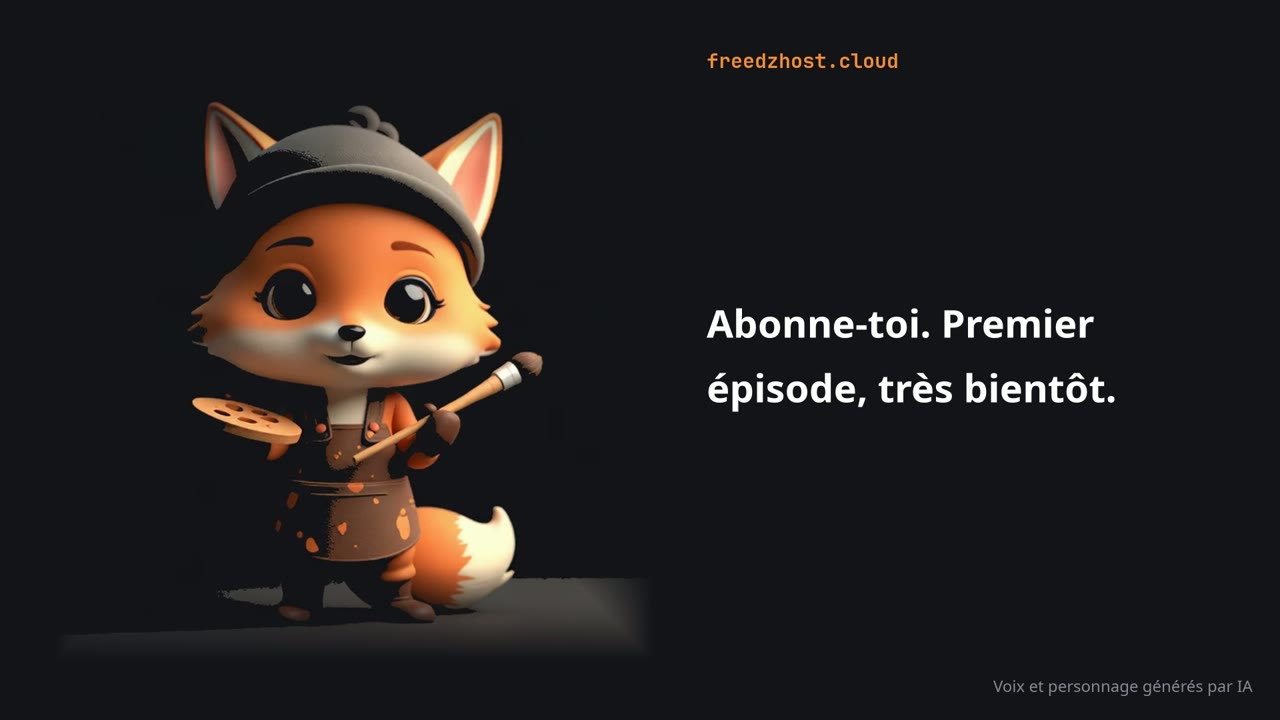
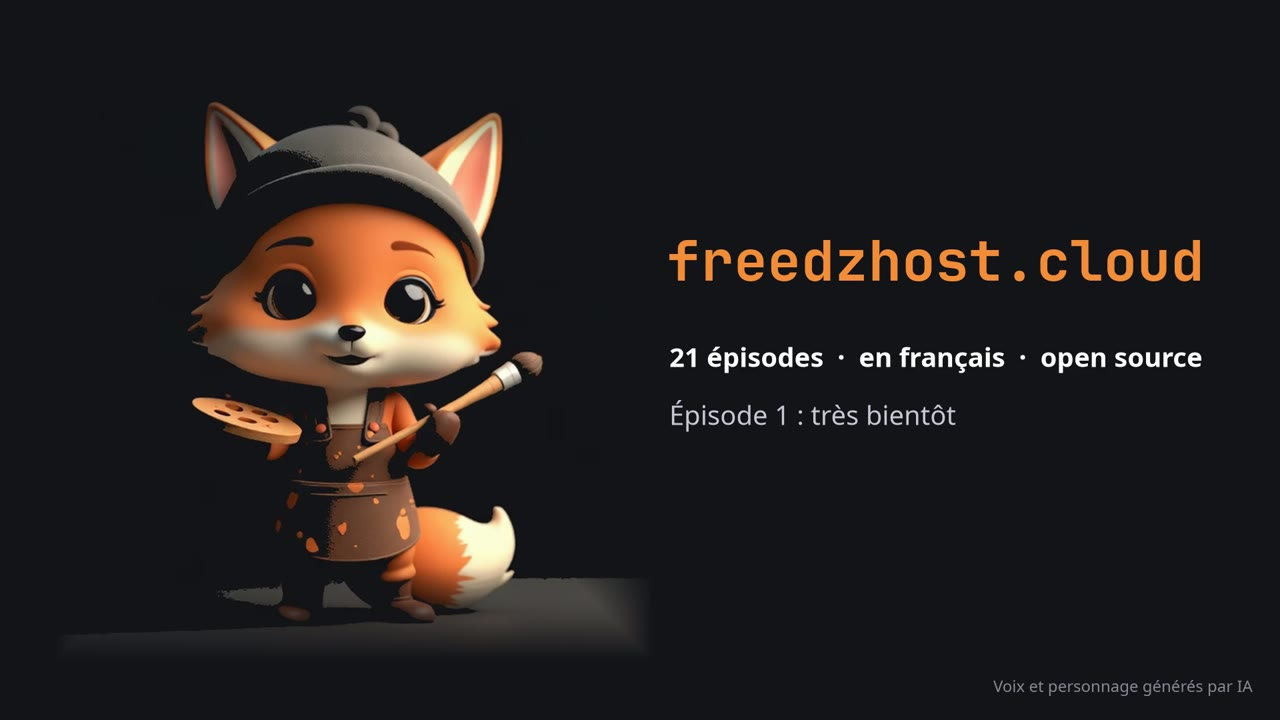
content: the teaser in a terminal-style player
The bare video becomes a terminal window: title bar, a custom play
button with the duration, the end card as poster, and a strip saying
how the teaser was made. English readers get timed English subtitles
(WebVTT); the French page keeps the captions burned into the video.

Changed region(s): [[0.5, 0.4278, 0.9375, 0.6111], [0.5, 0.3361, 0.9375, 0.3972], [0.5625, 0.0611, 0.7188, 0.0917]]

diff --git a/static/style.css b/static/style.css
@@ -39,3 +39,36 @@ footer { color: var(--muted); font-size: .85rem; padding-block: 40px; border-top
 .shots img:first-child { grid-column: 1 / -1; }
 .shots .phone { max-width: 260px; justify-self: center; }
 @media (max-width: 560px) { .shots { grid-template-columns: 1fr; } }
+.player { width: min(1080px, calc(100vw - 32px)); position: relative; left: 50%; transform: translateX(-50%); margin: 32px 0 40px; }
+.term { background: linear-gradient(180deg, #1e1c25, #17161c); border: 1px solid #34303f; border-radius: 14px; overflow: hidden;
+  box-shadow: 0 30px 80px -30px rgba(242, 140, 56, .35), 0 0 0 1px rgba(255, 255, 255, .02) inset; }
+.term-bar { display: flex; align-items: center; gap: 8px; padding: 10px 14px; border-bottom: 1px solid #2c2934; background: #1a1920; }
+.term-bar i { width: 11px; height: 11px; border-radius: 50%; background: #3a3644; }
+.term-bar i:first-child { background: #f28c38; }
+.term-bar code { margin-left: 10px; color: var(--muted); font-size: .85rem; white-space: nowrap; overflow: hidden; text-overflow: ellipsis; }
+.term-bar .live { margin-left: auto; font: 600 .7rem/1 ui-monospace, monospace; letter-spacing: .08em; text-transform: uppercase;
+  color: #7ee2a8; border: 1px solid #2f5a43; padding: 4px 8px; border-radius: 999px; }
+.term-bar .live::before { content: ""; display: inline-block; width: 6px; height: 6px; border-radius: 50%; background: #7ee2a8; margin-right: 6px; vertical-align: 1px; }
+.screen { position: relative; background: #000; aspect-ratio: 16 / 9; }
+.screen video { width: 100%; height: 100%; margin: 0; border-radius: 0; object-fit: cover; }
+.screen video::cue { background: rgba(10, 9, 13, .78); color: #fff; font: 600 1.05rem/1.35 system-ui, sans-serif; }
+.play { position: absolute; inset: auto auto 7% 50%; transform: translateX(-50%); display: flex; align-items: center; gap: 14px;
+  background: rgba(20, 19, 24, .72); backdrop-filter: blur(8px); border: 1px solid rgba(242, 140, 56, .5); color: var(--text);
+  border-radius: 999px; padding: 12px 24px 12px 14px; font: 600 1rem/1.2 system-ui, sans-serif; cursor: pointer; text-align: left; transition: transform .2s, border-color .2s; }
+.play:hover { transform: translateX(-50%) scale(1.03); border-color: var(--accent); }
+.play small { display: block; font-weight: 400; color: var(--muted); font-size: .8rem; margin-top: 2px; }
+.play .tri { width: 42px; height: 42px; border-radius: 50%; background: var(--accent); position: relative; flex: none; box-shadow: 0 0 0 6px rgba(242, 140, 56, .18); }
+.play .tri::after { content: ""; position: absolute; left: 16px; top: 12px; border-left: 14px solid #141318; border-top: 9px solid transparent; border-bottom: 9px solid transparent; }
+.made { display: grid; grid-template-columns: repeat(4, 1fr); margin: 0; border-top: 1px solid #2c2934; }
+.made div { padding: 12px 16px; border-right: 1px solid #2c2934; }
+.made div:last-child { border-right: 0; }
+.made dt { font: 600 .7rem/1 ui-monospace, monospace; letter-spacing: .08em; text-transform: uppercase; color: var(--accent); margin-bottom: 6px; }
+.made dd { margin: 0; font-size: .88rem; color: var(--muted); }
+@media (max-width: 720px) { .made { grid-template-columns: 1fr 1fr; } .made div:nth-child(2) { border-right: 0; } .made div:nth-child(-n+2) { border-bottom: 1px solid #2c2934; } }
+@media (prefers-reduced-motion: reduce) { .play, .play:hover { transition: none; transform: translateX(-50%); } }
+.play[hidden] { display: none; }
+@media (max-width: 560px) {
+  .play { inset: 50% auto auto 50%; transform: translate(-50%, -50%); padding: 6px; gap: 0; }
+  .play:hover { transform: translate(-50%, -50%) scale(1.05); }
+  .play > span:last-child { position: absolute; width: 1px; height: 1px; overflow: hidden; clip: rect(0 0 0 0); }
+}

diff --git a/content/fr/index.html b/content/fr/index.html
@@ -1,8 +1,23 @@
 <!-- {"title": "Votre propre nœud d'agents IA souverain", "summary": "Accueil", "order": 0} -->
 <h1>Votre essaim d'agents IA, à la maison</h1>
 <p class="lead">Une série qui part de zéro et finit avec un essaim d'agents IA qui tourne sur votre propre machine : des modèles, un ordonnanceur de cartes graphiques, une cage pour que l'IA code sans rien casser, une mémoire, et une voix. Chaque épisode livre une vraie brique, testée et publiée en open source.</p>
-<video controls preload="none" poster="/media/teaser-poster.jpg" src="/media/teaser-fr.mp4"></video>
-<p class="caption">Le teaser. Voix et personnage générés par IA.</p>
+<section class="player" aria-label="Teaser">
+  <div class="term">
+    <div class="term-bar"><i></i><i></i><i></i><code>foxbot@node:~ $ play teaser.mp4</code><span class="live">local</span></div>
+    <div class="screen">
+      <video id="teaser" preload="metadata" playsinline poster="/media/teaser-poster.jpg">
+        <source src="/media/teaser-fr.mp4" type="video/mp4">
+      </video>
+      <button class="play" type="button" aria-label="Lire le teaser"><span class="tri"></span><span>Lire le teaser <small>47 s · voix et sous-titres en français</small></span></button>
+    </div>
+    <dl class="made">
+      <div><dt>voix</dt><dd>Piper TTS, sur le processeur</dd></div>
+      <div><dt>lèvres</dt><dd>pilotées par le volume de la voix</dd></div>
+      <div><dt>personnage</dt><dd>ComfyUI, sur notre propre GPU</dd></div>
+      <div><dt>API cloud</dt><dd>aucune</dd></div>
+    </dl>
+  </div>
+</section>
 
 <h2>L'app : FoxBot</h2>
 <p>L'essaim a un visage. FoxBot vit dans la console web et dans l'app Android : il se repose quand rien ne tourne, tape au clavier quand un agent travaille, et vous prévient quand quelque chose vous attend.</p>
@@ -21,3 +36,12 @@
 
 <h2>Ce que nous ne promettons pas</h2>
 <p>Un modèle local sur une carte grand public n'est pas un modèle de pointe dans le cloud. Il est plus lent, il se trompe plus, et nous montrons ces erreurs au lieu de les cacher. Ce que vous gagnez, c'est le contrôle : vos données restent sur votre machine et rien ne vous enferme.</p>
+<script>
+(() => {
+  const v = document.getElementById("teaser");
+  const b = document.querySelector(".player .play");
+  if (!v || !b) return;
+  b.addEventListener("click", () => { v.controls = true; b.hidden = true; v.play(); });
+  v.addEventListener("ended", () => { v.controls = false; b.hidden = false; v.load(); });
+})();
+</script>

diff --git a/content/en/index.html b/content/en/index.html
@@ -1,8 +1,24 @@
 <!-- {"title": "Run your own sovereign AI agent node", "summary": "Home", "order": 0} -->
 <h1>Run your own AI agent swarm, at home</h1>
 <p class="lead">A series that starts from zero and ends with a swarm of AI agents running on your own machine: models, GPU scheduling, a sandbox so the AI can write code without breaking anything, memory, and a voice. Every episode ships one real, tested, open-source building block.</p>
-<video controls preload="none" poster="/media/teaser-poster.jpg" src="/media/teaser-fr.mp4"></video>
-<p class="caption">Teaser, in French. Voice and character are AI-generated.</p>
+<section class="player" aria-label="Teaser">
+  <div class="term">
+    <div class="term-bar"><i></i><i></i><i></i><code>foxbot@node:~ $ play teaser.mp4</code><span class="live">local</span></div>
+    <div class="screen">
+      <video id="teaser" preload="metadata" playsinline poster="/media/teaser-poster.jpg">
+        <source src="/media/teaser-fr.mp4" type="video/mp4">
+        <track kind="subtitles" srclang="en" label="English" src="/media/teaser-en.vtt" default>
+      </video>
+      <button class="play" type="button" aria-label="Play the teaser"><span class="tri"></span><span>Play the teaser <small>47 s · French voice, English subtitles</small></span></button>
+    </div>
+    <dl class="made">
+      <div><dt>voice</dt><dd>Piper TTS, on the CPU</dd></div>
+      <div><dt>lips</dt><dd>driven by the voice's loudness</dd></div>
+      <div><dt>character</dt><dd>ComfyUI, on our own GPU</dd></div>
+      <div><dt>cloud APIs</dt><dd>none</dd></div>
+    </dl>
+  </div>
+</section>
 
 <h2>The app: FoxBot</h2>
 <p>The swarm has a face. FoxBot lives in the web console and in the Android app: it rests when nothing runs, types away when an agent works, and tells you when something is waiting for you.</p>
@@ -21,3 +37,12 @@
 
 <h2>What we do not promise</h2>
 <p>A local model on a consumer card is not a frontier cloud model. It is slower, it makes more mistakes, and we show those mistakes instead of hiding them. What you get is control: your data stays on your machine and nothing locks you in.</p>
+<script>
+(() => {
+  const v = document.getElementById("teaser");
+  const b = document.querySelector(".player .play");
+  if (!v || !b) return;
+  b.addEventListener("click", () => { v.controls = true; b.hidden = true; v.play(); });
+  v.addEventListener("ended", () => { v.controls = false; b.hidden = false; v.load(); });
+})();
+</script>
